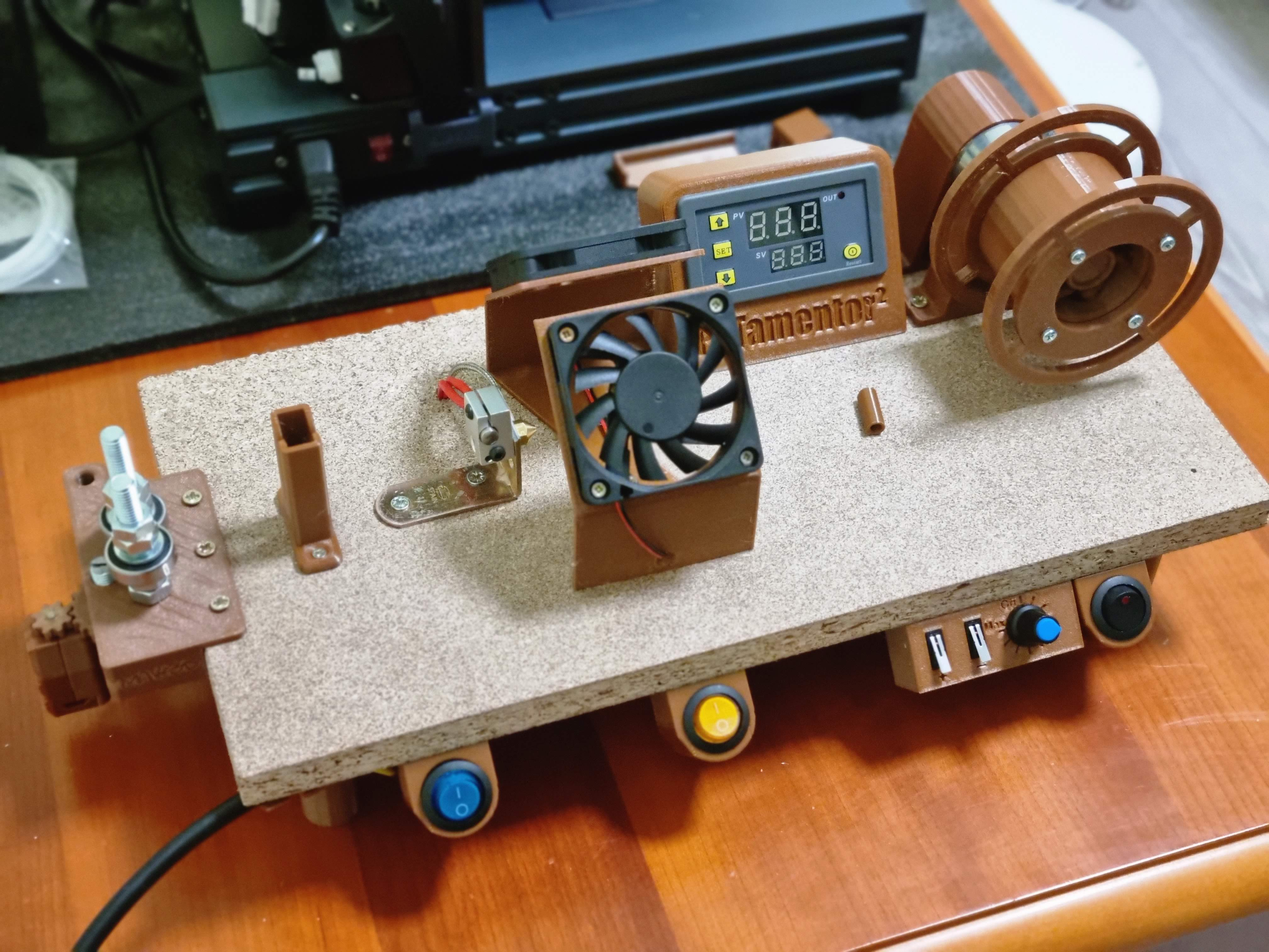
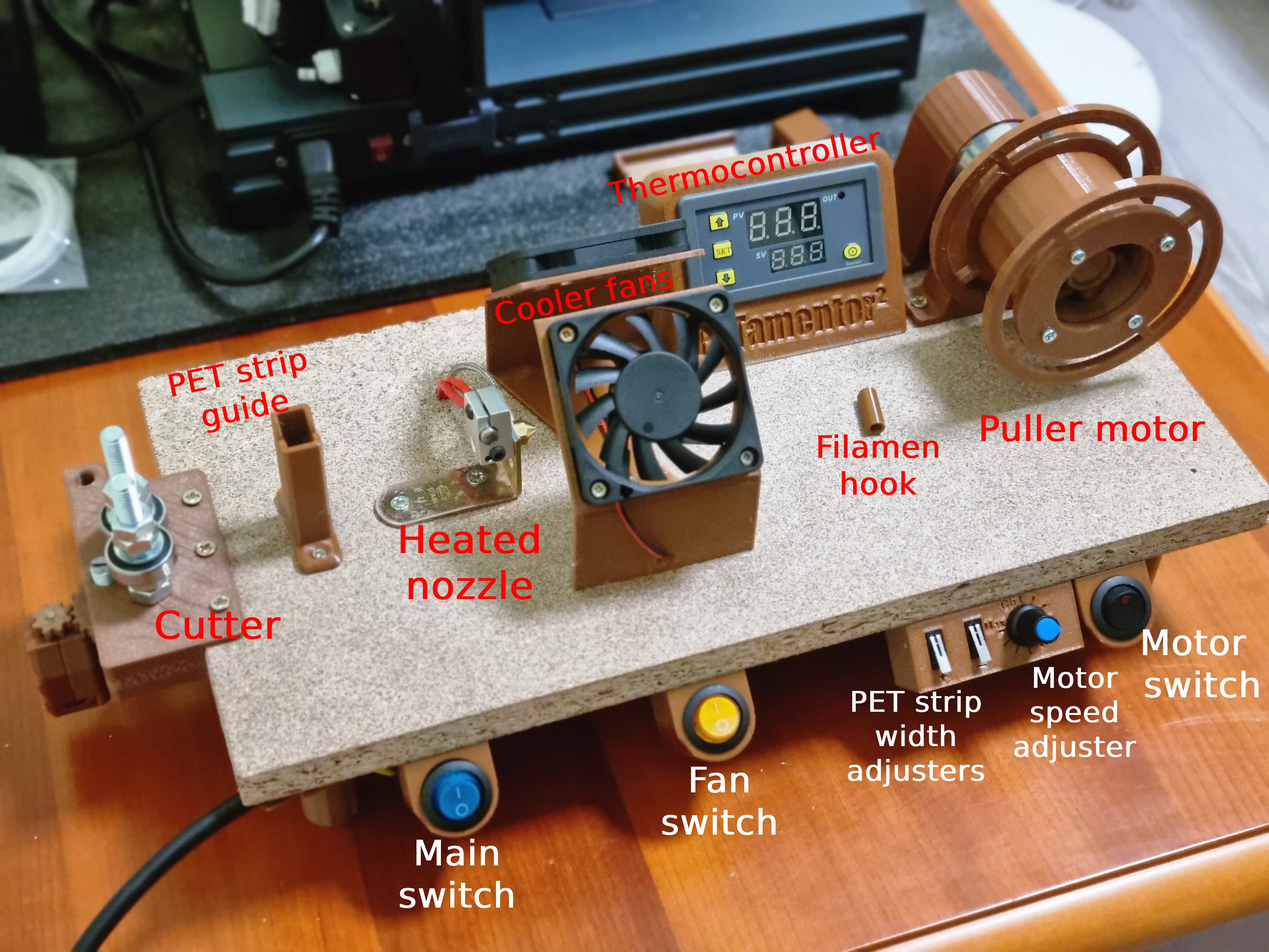
added picture of parts named

diff --git a/README.md b/README.md
@@ -15,7 +15,7 @@ I'm combining existing projects into one, using the best ideas from all worlds:
 - Motor, and a spool that pulls the PET through the cutter & nozzle, and collects the filament on the spool
 - Motor Speed Controller
 
-<placeholder for a picture of the done product, where the parts are highlighted>
+![Parts named](/03_images/final%20state.jpg) 
 
 The STLs, gcodes, pictures and other files that I actually used to build my version are in the main folder in their respective folders.
 I collected all the STLs, pictures, diagrams, material lists from the "base" projects, and put them into their respective folders as well.  
